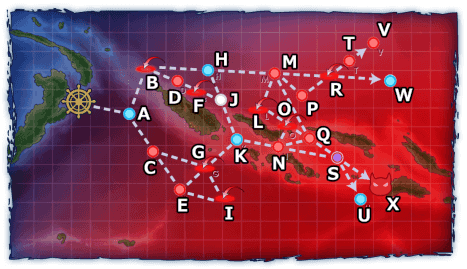
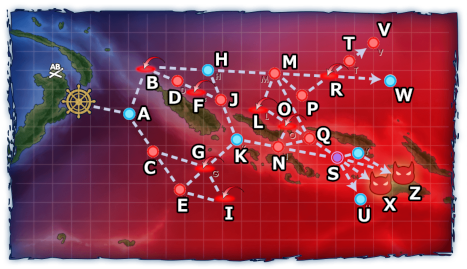
E-6 クリック判定 add

Changed region(s): [[0.6895, 0.5353, 0.9293, 0.803], [0.4497, 0.3271, 0.5096, 0.4164], [0.0899, 0.2379, 0.1499, 0.2974]]

diff --git a/js/data.js b/js/data.js
@@ -15,8 +15,8 @@ const PLANE_TYPE = [
 	{ id: 102, name: "陸軍戦闘機", abbr: "陸戦", css: "css_lb_fighter" },
 	{ id: 103, name: "局地戦闘機", abbr: "局戦", css: "css_lb_attack_aircraft" },
 	{ id: 104, name: "陸上偵察機", abbr: "陸偵", css: "css_cb_reconnaissance" },
- ];
- const PLANE_DATA = [
+];
+const PLANE_DATA = [
 	{ id: 19, type: 1, name: "九六式艦戦", abbr: "", fire: 0, antiAir: 3, torpedo: 0, bomber: 0, armor: 0, asw: 0, antiBomber: 0, interception: 0, scout: 0, canRemodel: 1, accuracy: 0, avoid2: 1, radius: 3, cost: 3, avoid: 0 },
 	{ id: 20, type: 1, name: "零式艦戦21型", abbr: "", fire: 0, antiAir: 5, torpedo: 0, bomber: 0, armor: 0, asw: 0, antiBomber: 0, interception: 0, scout: 0, canRemodel: 1, accuracy: 0, avoid2: 0, radius: 7, cost: 4, avoid: 0 },
 	{ id: 21, type: 1, name: "零式艦戦52型", abbr: "", fire: 0, antiAir: 6, torpedo: 0, bomber: 0, armor: 0, asw: 0, antiBomber: 0, interception: 0, scout: 0, canRemodel: 1, accuracy: 0, avoid2: 0, radius: 6, cost: 5, avoid: 0 },
@@ -178,8 +178,8 @@ const PLANE_TYPE = [
 	{ id: 354, type: 103, name: "Fw190 D-9", abbr: "", fire: 2, antiAir: 12, torpedo: 0, bomber: 0, armor: 0, asw: 0, antiBomber: 3, interception: 3, scout: 0, canRemodel: 0, accuracy: 0, avoid2: 0, radius: 3, cost: 8, avoid: 0 },
 	{ id: 311, type: 104, name: "二式陸上偵察機", abbr: "", fire: 0, antiAir: 3, torpedo: 0, bomber: 0, armor: 0, asw: 0, antiBomber: 0, interception: 0, scout: 8, canRemodel: 0, accuracy: 2, avoid2: 0, radius: 8, cost: 7, avoid: 0 },
 	{ id: 312, type: 104, name: "二式陸上偵察機(熟練)", abbr: "", fire: 0, antiAir: 3, torpedo: 0, bomber: 0, armor: 1, asw: 0, antiBomber: 0, interception: 0, scout: 9, canRemodel: 1, accuracy: 3, avoid2: 0, radius: 9, cost: 7, avoid: 0 },
- ];
- const SHIP_TYPE = [
+];
+const SHIP_TYPE = [
 	{ id: 1, name: "正規空母" },
 	{ id: 2, name: "装甲空母" },
 	{ id: 3, name: "軽空母" },
@@ -200,8 +200,8 @@ const PLANE_TYPE = [
 	{ id: 18, name: "潜水艦" },
 	{ id: 19, name: "海防艦" },
 	{ id: 20, name: "工作艦" },
- ];
- const SHIP_DATA = [
+];
+const SHIP_DATA = [
 	{ id: 6, type: 1, name: "赤城", slot: [18, 18, 27, 10], final: 0, orig: 6, deckid: 83 },
 	{ id: 7, type: 1, name: "加賀", slot: [18, 18, 45, 12], final: 0, orig: 7, deckid: 84 },
 	{ id: 8, type: 1, name: "蒼龍", slot: [12, 27, 18, 7], final: 0, orig: 8, deckid: 90 },
@@ -352,8 +352,8 @@ const PLANE_TYPE = [
 	{ id: 1501, type: 12, name: "伊19改", slot: [1, 1], final: 1, orig: 123, deckid: 401 },
 	{ id: 1503, type: 12, name: "伊401改", slot: [3, 3], final: 1, orig: 155, deckid: 403 },
 	{ id: 1506, type: 12, name: "伊400改", slot: [3, 3], final: 1, orig: 293, deckid: 606 },
- ];
- const ENEMY_TYPE = [
+];
+const ENEMY_TYPE = [
 	{ id: 11, name: "正規空母" },
 	{ id: 12, name: "軽空母" },
 	{ id: 13, name: "戦艦" },
@@ -367,8 +367,8 @@ const PLANE_TYPE = [
 	{ id: 21, name: "浮遊/護衛 要塞" },
 	{ id: 1, name: "鬼/姫" },
 	{ id: 2, name: "地上施設" },
- ];
- const ENEMY_DATA = [
+];
+const ENEMY_DATA = [
 	{ id: -1, type: [11, 12, 13, 14, 15, 16, 17, 18, 19, 20, 21, 1, 2], name: "直接入力", slot: [], eqp: [], orig: -1, aaw: 0, aabo: 0 },
 	{ id: 1, type: [16], name: "駆逐イ級", slot: [], eqp: [], orig: 1, aaw: 4, aabo: 0 },
 	{ id: 2, type: [16], name: "駆逐ロ級", slot: [], eqp: [], orig: 2, aaw: 4, aabo: 0 },
@@ -704,8 +704,8 @@ const PLANE_TYPE = [
 	{ id: 476, type: [1, 11], name: "南太平洋空母棲姫-壊 [甲]", slot: [], eqp: [], orig: 476, aaw: 30, aabo: 4 },
 	{ id: 477, type: [1, 18], name: "潜水夏姫IIfragship", slot: [], eqp: [], orig: 477, aaw: 0, aabo: 0 },
 	{ id: 478, type: [1, 18], name: "潜水夏姫IIfragship", slot: [], eqp: [], orig: 478, aaw: 0, aabo: 0 },
- ];
- const ENEMY_PLANE_DATA = [
+];
+const ENEMY_PLANE_DATA = [
 	{ id: 519, type: 1, name: "深海棲艦戦", antiAir: 2, torpedo: 0, bomber: 0 },
 	{ id: 520, type: 1, name: "深海棲艦戦 Mark.II", antiAir: 5, torpedo: 0, bomber: 0 },
 	{ id: 521, type: 1, name: "深海棲艦戦 Mark.III", antiAir: 9, torpedo: 0, bomber: 0 },
@@ -744,15 +744,15 @@ const PLANE_TYPE = [
 	{ id: 555, type: 6, name: "深海水上攻撃機改", antiAir: 9, torpedo: 0, bomber: 13 },
 	{ id: 571, type: 6, name: "深海水母小鬼機", antiAir: 11, torpedo: 0, bomber: 15 },
 	{ id: 573, type: 6, name: "深海潜水下駄履き", antiAir: 6, torpedo: 0, bomber: 18 },
- ];
- const DIFFICULTY = [
+];
+const DIFFICULTY = [
 	{ id: -1, name: "-" },
 	{ id: 0, name: "丁" },
 	{ id: 1, name: "丙" },
 	{ id: 2, name: "乙" },
 	{ id: 3, name: "甲" },
- ];
- const WORLD_DATA = [
+];
+const WORLD_DATA = [
 	{ world: 2006, name: "侵攻阻止！島嶼防衛強化作戦(2020梅雨イベ)" },
 	{ world: 1, name: "鎮守府海域" },
 	{ world: 2, name: "南西諸島海域" },
@@ -763,8 +763,8 @@ const PLANE_TYPE = [
 	{ world: 6, name: "中部海域" },
 	{ world: 1911, name: "進撃！第二次作戦「南方作戦」(2019秋イベ)" },
 	{ world: 2003, name: "桃の節句！沖に立つ波(ミニ期間限定海域)" },
- ];
- const MAP_DATA = [
+];
+const MAP_DATA = [
 	{ area: 11, name: "鎮守府正面海域" },
 	{ area: 12, name: "南西諸島沖" },
 	{ area: 13, name: "製油所地帯沿岸" },
@@ -812,8 +812,8 @@ const PLANE_TYPE = [
 	{ area: 20065, name: "ニューブリテン島沖/ソロモン諸島西部沖" },
 	{ area: 20066, name: "ソロモン諸島沖" },
 	{ area: 20067, name: "ソロモン諸島沖/サンタ・クルーズ諸島沖" },
- ];
- const ENEMY_PATTERN = [
+];
+const ENEMY_PATTERN = [
 	{ a: 11, n: "A", d: "", l: -1, t: 1, f: 1, r: 0, e: [1], c: "219,112,246,149" },
 	{ a: 11, n: "A", d: "", l: -1, t: 1, f: 1, r: 0, e: [2], c: "219,112,246,149" },
 	{ a: 11, n: "A", d: "", l: -1, t: 1, f: 1, r: 0, e: [3], c: "219,112,246,149" },
@@ -2136,35 +2136,38 @@ const PLANE_TYPE = [
 	{ a: 20065, n: "空襲", d: "", l: 3, t: 5, f: 3, r: 0, e: [152, 152, 151], c: "" },
 	{ a: 20065, n: "空襲", d: "", l: 3, t: 5, f: 3, r: 0, e: [152, 151, 151], c: "" },
 	{ a: 20065, n: "空襲", d: "", l: 3, t: 5, f: 3, r: 0, e: [151, 151, 151], c: "" },
-	{ a: 20066, n: "B", d: "", l: 3, t: 3, f: 3, r: 1, e: [183, 151, 151, 151], c: "" },
-	{ a: 20066, n: "B", d: "", l: 3, t: 3, f: 3, r: 1, e: [183, 152, 152], c: "" },
-	{ a: 20066, n: "C", d: "", l: 3, t: 1, f: 4, r: 2, e: [72, 71, 71, 71], c: "" },
-	{ a: 20066, n: "E", d: "", l: 3, t: 1, f: 4, r: 3, e: [72, 71, 71, 71], c: "" },
-	{ a: 20066, n: "G", d: "", l: 3, t: 3, f: 3, r: 3, e: [183, 152, 151, 151], c: "" },
-	{ a: 20066, n: "G", d: "", l: 3, t: 3, f: 3, r: 3, e: [183, 151, 151, 151], c: "" },
-	{ a: 20066, n: "G", d: "", l: 3, t: 3, f: 3, r: 3, e: [183, 152, 152], c: "" },
-	{ a: 20066, n: "G", d: "", l: 3, t: 3, f: 3, r: 3, e: [183, 151, 151], c: "" },
-	{ a: 20066, n: "I", d: "", l: 3, t: 3, f: 3, r: 4, e: [183, 152, 151, 151], c: "" },
-	{ a: 20066, n: "L", d: "", l: 3, t: 3, f: 3, r: 3, e: [183, 151, 151, 151], c: "" },
-	{ a: 20066, n: "M", d: "", l: 3, t: 1, f: 5, r: 3, e: [308, 72, 71, 71], c: "" },
-	{ a: 20066, n: "N", d: "", l: 3, t: 1, f: 1, r: 4, e: [55, 59, 59, 362, 77, 77], c: "" },
-	{ a: 20066, n: "O", d: "", l: 3, t: 3, f: 3, r: 4, e: [183, 151, 151, 151], c: "" },
-	{ a: 20066, n: "O", d: "", l: 3, t: 3, f: 3, r: 4, e: [183, 152, 152], c: "" },
-	{ a: 20066, n: "O", d: "", l: 3, t: 3, f: 3, r: 4, e: [183, 151, 151], c: "" },
-	{ a: 20066, n: "P", d: "", l: 3, t: 1, f: 2, r: 4, e: [29, 29, 362, 54, 77, 77], c: "" },
-	{ a: 20066, n: "Q", d: "", l: 3, t: 1, f: 2, r: 5, e: [27, 27, 55, 362, 123, 123], c: "" },
-	{ a: 20066, n: "R", d: "", l: 3, t: 3, f: 3, r: 5, e: [280, 280, 456, 456, 43, 58], c: "" },
-	{ a: 20066, n: "T", d: "", l: 3, t: 1, f: 1, r: 5, e: [55, 92, 92, 77, 77, 77], c: "" },
-	{ a: 20066, n: "V", d: "", l: 3, t: 2, f: 11, r: 6, e: [280, 280, 280, 456, 43, 43, 55, 92, 123, 123, 77, 77], c: "" },
-	{ a: 20066, n: "V", d: "", l: 3, t: 2, f: 11, r: 6, e: [280, 280, 456, 43, 43, 58, 55, 92, 123, 77, 77, 77], c: "" },
-	{ a: 20066, n: "X", d: "前哨", l: 3, t: 2, f: 11, r: 6, e: [181, 423, 423, 167, 140, 140, 55, 92, 123, 123, 26, 26], c: "" },
-	{ a: 20066, n: "X", d: "最終", l: 3, t: 2, f: 11, r: 6, e: [181, 426, 426, 167, 140, 140, 405, 362, 451, 451, 26, 26], c: "" },
-	{ a: 20066, n: "Z", d: "前哨", l: 3, t: 2, f: 11, r: 7, e: [467, 198, 456, 456, 362, 405, 55, 92, 451, 451, 240, 240], c: "" },
-	{ a: 20066, n: "Z", d: "最終", l: 3, t: 2, f: 11, r: 7, e: [470, 198, 198, 456, 456, 362, 405, 92, 451, 451, 451, 451], c: "" },
-	{ a: 20066, n: "空襲", d: "", l: 3, t: 5, f: 3, r: 0, e: [183, 152, 152, 151], c: "" },
-	{ a: 20066, n: "空襲", d: "", l: 3, t: 5, f: 3, r: 0, e: [183, 152, 151, 151], c: "" },
-	{ a: 20066, n: "空襲", d: "", l: 3, t: 5, f: 3, r: 0, e: [183, 151, 151, 151], c: "" },
-	{ a: 20066, n: "空襲", d: "", l: 3, t: 5, f: 3, r: 0, e: [183, 151, 151], c: "" },
+	{ a: 20066, n: "B", d: "", l: 3, t: 3, f: 3, r: 1, e: [183, 151, 151, 151], c: "136, 53, 156, 73" },
+	{ a: 20066, n: "B", d: "", l: 3, t: 3, f: 3, r: 1, e: [183, 152, 152], c: "136, 53, 156, 73" },
+	{ a: 20066, n: "C", d: "", l: 3, t: 1, f: 4, r: 2, e: [72, 71, 71, 71], c: "142, 139, 162, 159" },
+	{ a: 20066, n: "D", d: "", l: 3, t: 1, f: 5, r: 2, e: [72, 71, 71, 71], c: "167, 68, 187, 88" },
+	{ a: 20066, n: "E", d: "", l: 3, t: 1, f: 4, r: 3, e: [72, 71, 71, 71], c: "169, 177, 189, 197" },
+	{ a: 20066, n: "F", d: "", l: 3, t: 3, f: 3, r: 2, e: [183, 152, 152, 151], c: "186, 77, 206, 97" },
+	{ a: 20066, n: "G", d: "", l: 3, t: 3, f: 3, r: 3, e: [183, 152, 151, 151], c: "195., 153, 215, 173" },
+	{ a: 20066, n: "G", d: "", l: 3, t: 3, f: 3, r: 3, e: [183, 151, 151, 151], c: "195., 153, 215, 173" },
+	{ a: 20066, n: "G", d: "", l: 3, t: 3, f: 3, r: 3, e: [183, 152, 152], c: "195., 153, 215, 173" },
+	{ a: 20066, n: "G", d: "", l: 3, t: 3, f: 3, r: 3, e: [183, 151, 151], c: "195., 153, 215, 173" },
+	{ a: 20066, n: "I", d: "", l: 3, t: 3, f: 3, r: 4, e: [183, 152, 151, 151], c: "215, 182, 235, 202" },
+	{ a: 20066, n: "J", d: "", l: 3, t: 1, f: 1, r: 2, e: [55, 362, 362, 123, 123, 123], c: "210, 87, 230, 107" },
+	{ a: 20066, n: "L", d: "", l: 3, t: 3, f: 3, r: 3, e: [183, 151, 151, 151], c: "248, 95, 268, 115" },
+	{ a: 20066, n: "M", d: "", l: 3, t: 1, f: 5, r: 3, e: [308, 72, 71, 71], c: "264, 60, 284, 80" },
+	{ a: 20066, n: "N", d: "", l: 3, t: 1, f: 1, r: 4, e: [55, 59, 59, 362, 77, 77], c: "267, 133, 287, 153" },
+	{ a: 20066, n: "O", d: "", l: 3, t: 3, f: 3, r: 4, e: [183, 151, 151, 151], c: "278, 111, 298, 131" },
+	{ a: 20066, n: "O", d: "", l: 3, t: 3, f: 3, r: 4, e: [183, 152, 152], c: "278, 111, 298, 131" },
+	{ a: 20066, n: "O", d: "", l: 3, t: 3, f: 3, r: 4, e: [183, 151, 151], c: "278, 111, 298, 131" },
+	{ a: 20066, n: "P", d: "", l: 3, t: 1, f: 2, r: 4, e: [29, 29, 362, 54, 77, 77], c: "292, 83, 312, 103" },
+	{ a: 20066, n: "Q", d: "", l: 3, t: 1, f: 2, r: 5, e: [27, 27, 55, 362, 123, 123], c: "299, 125, 319, 145" },
+	{ a: 20066, n: "R", d: "", l: 3, t: 3, f: 3, r: 5, e: [280, 280, 456, 456, 43, 58], c: "319, 60, 339, 80" },
+	{ a: 20066, n: "T", d: "", l: 3, t: 1, f: 1, r: 5, e: [55, 92, 92, 77, 77, 77], c: "339, 49, 359, 69" },
+	{ a: 20066, n: "V", d: "", l: 3, t: 2, f: 11, r: 6, e: [280, 280, 280, 456, 43, 43, 55, 92, 123, 123, 77, 77], c: "364, 30, 384, 50" },
+	{ a: 20066, n: "V", d: "", l: 3, t: 2, f: 11, r: 6, e: [280, 280, 456, 43, 43, 58, 55, 92, 123, 77, 77, 77], c: "364, 30, 384, 50" },
+	{ a: 20066, n: "X", d: "前哨", l: 3, t: 2, f: 11, r: 6, e: [181, 423, 423, 167, 140, 140, 55, 92, 123, 123, 26, 26], c: "370, 175, 390, 195" },
+	{ a: 20066, n: "X", d: "最終", l: 3, t: 2, f: 11, r: 6, e: [181, 426, 426, 167, 140, 140, 405, 362, 451, 451, 26, 26], c: "370, 175, 390, 195" },
+	{ a: 20066, n: "Z", d: "前哨", l: 3, t: 2, f: 11, r: 7, e: [467, 198, 456, 456, 362, 405, 55, 92, 451, 451, 240, 240], c: "393, 163, 413, 183" },
+	{ a: 20066, n: "Z", d: "最終", l: 3, t: 2, f: 11, r: 7, e: [470, 198, 198, 456, 456, 362, 405, 92, 451, 451, 451, 451], c: "393, 163, 413, 183" },
+	{ a: 20066, n: "空襲", d: "", l: 3, t: 5, f: 3, r: 0, e: [183, 152, 152, 151], c: "45, 60, 65, 80" },
+	{ a: 20066, n: "空襲", d: "", l: 3, t: 5, f: 3, r: 0, e: [183, 152, 151, 151], c: "45, 60, 65, 80" },
+	{ a: 20066, n: "空襲", d: "", l: 3, t: 5, f: 3, r: 0, e: [183, 151, 151, 151], c: "45, 60, 65, 80" },
+	{ a: 20066, n: "空襲", d: "", l: 3, t: 5, f: 3, r: 0, e: [183, 151, 151], c: "45, 60, 65, 80" },
 	{ a: 20067, n: "B", d: "", l: 3, t: 1, f: 4, r: 1, e: [72, 71, 71, 71], c: "91, 83, 111, 103" },
 	{ a: 20067, n: "C", d: "", l: 3, t: 1, f: 4, r: 2, e: [72, 71, 71, 71], c: "104, 132, 124, 152" },
 	{ a: 20067, n: "E", d: "", l: 3, t: 3, f: 3, r: 3, e: [183, 151, 151, 151], c: "141, 158, 161, 178" },
@@ -2198,11 +2201,11 @@ const PLANE_TYPE = [
 	{ a: 20067, n: "Z1", d: "", l: 3, t: 1, f: 4, r: 7, e: [478, 72, 71, 71], c: "354, 60, 374, 80" },
 	{ a: 20067, n: "Z2", d: "", l: 3, t: 1, f: 1, r: 8, e: [55, 362, 241, 241, 78, 78], c: "382, 65, 402, 85" },
 	{ a: 20067, n: "Z3", d: "", l: 3, t: 1, f: 3, r: 8, e: [279, 43, 362, 241, 78, 78], c: "402, 91, 422, 111" },
-	{ a: 20067, n: "空襲", d: "", l: 3, t: 5, f: 3, r: 0, e: [183, 152, 152, 151], c: "" },
-	{ a: 20067, n: "空襲", d: "", l: 3, t: 5, f: 3, r: 0, e: [183, 152, 151, 151], c: "" },
-	{ a: 20067, n: "空襲", d: "", l: 3, t: 5, f: 3, r: 0, e: [183, 151, 151, 151], c: "" },
-	{ a: 20067, n: "空襲", d: "", l: 3, t: 5, f: 3, r: 0, e: [183, 152, 152], c: "" },
-	{ a: 20067, n: "空襲", d: "", l: 3, t: 5, f: 3, r: 0, e: [183, 152, 151], c: "" },
+	{ a: 20067, n: "空襲", d: "", l: 3, t: 5, f: 3, r: 0, e: [183, 152, 152, 151], c: "20, 83, 40, 103" },
+	{ a: 20067, n: "空襲", d: "", l: 3, t: 5, f: 3, r: 0, e: [183, 152, 151, 151], c: "20, 83, 40, 103" },
+	{ a: 20067, n: "空襲", d: "", l: 3, t: 5, f: 3, r: 0, e: [183, 151, 151, 151], c: "20, 83, 40, 103" },
+	{ a: 20067, n: "空襲", d: "", l: 3, t: 5, f: 3, r: 0, e: [183, 152, 152], c: "20, 83, 40, 103" },
+	{ a: 20067, n: "空襲", d: "", l: 3, t: 5, f: 3, r: 0, e: [183, 152, 151], c: "20, 83, 40, 103" },
  ];
 // 制空状態
 const AIR_STATUS = [
